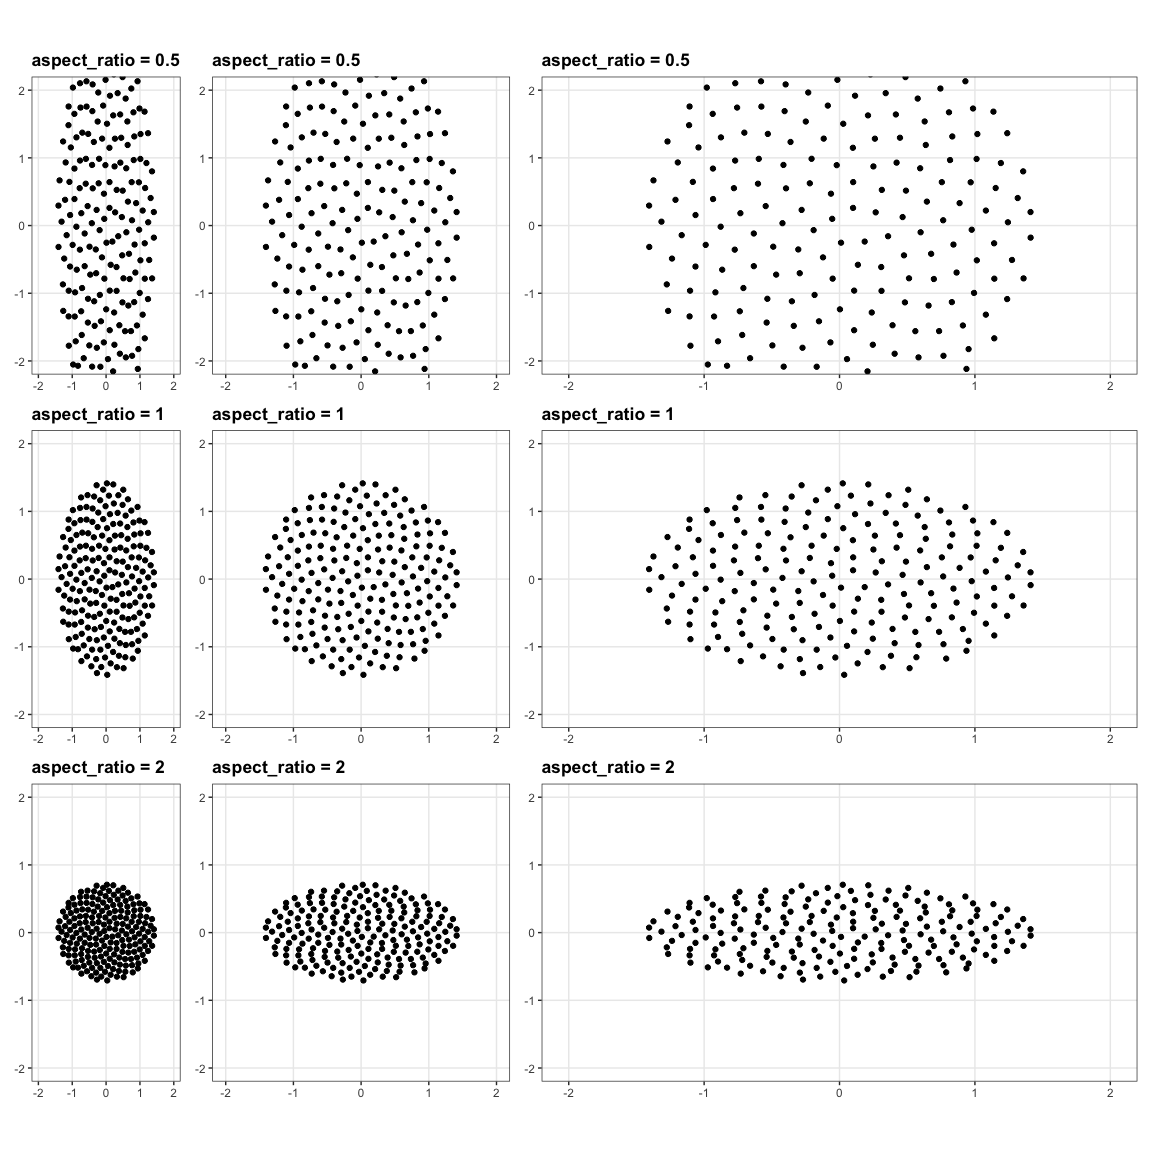
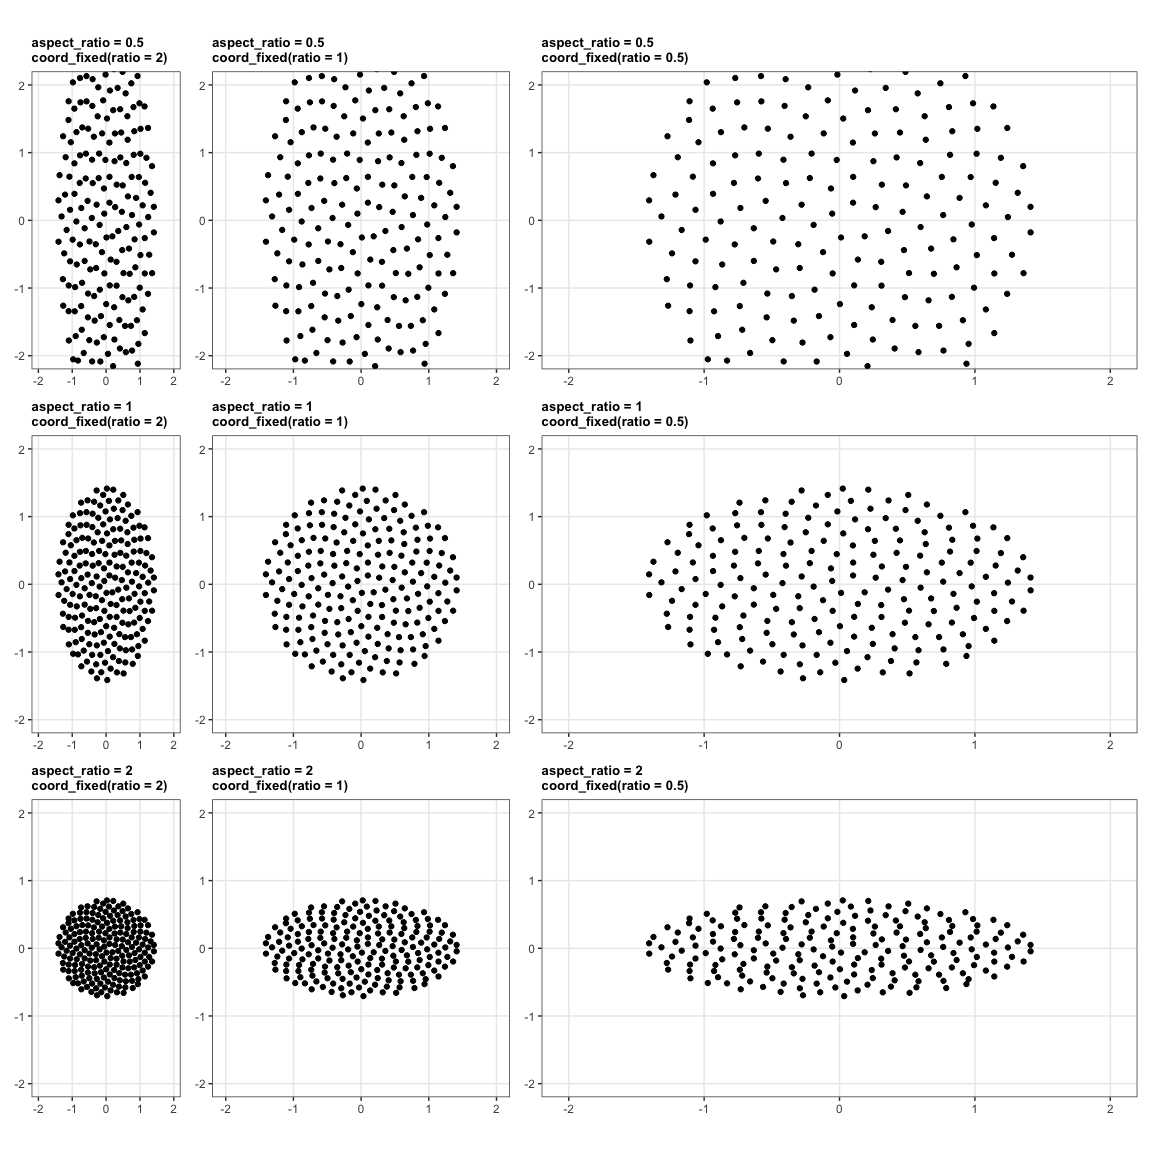
readme proofread

diff --git a/README.md b/README.md
@@ -193,10 +193,13 @@ the position adjustment without `coord_equal()`. The flowers can be made
 wider or taller to compensate for the aspect ratio of the axes or the
 image. The aspect ratio of the flowers should be set to the opposite of
 the aspect ratio for which it must compensate. For instance, consider a
-plot with anx axis that ranges from 0 to 1, and a y axis that ranges
+plot with an x axis that ranges from 0 to 1, and a y axis that ranges
 from 0 to 2. Saving this plot as a square image would squish the y axis,
 resulting in wider flowers. Setting the aspect ratio of the flowers to
-0.5 would offset this distortion.
+0.5 would offset this distortion. Note that while the aspect ratio is
+parameterized as width to height, the `ratio` parameter for
+coord_fixed() is height to width. So in this case, setting
+`aspect_ratio` equal to `ratio` results in non-distorted distributions.
 
 <img src="man/figures/README-contents_2C-1.png" alt="aspect_ratio" width="100%" />
 
